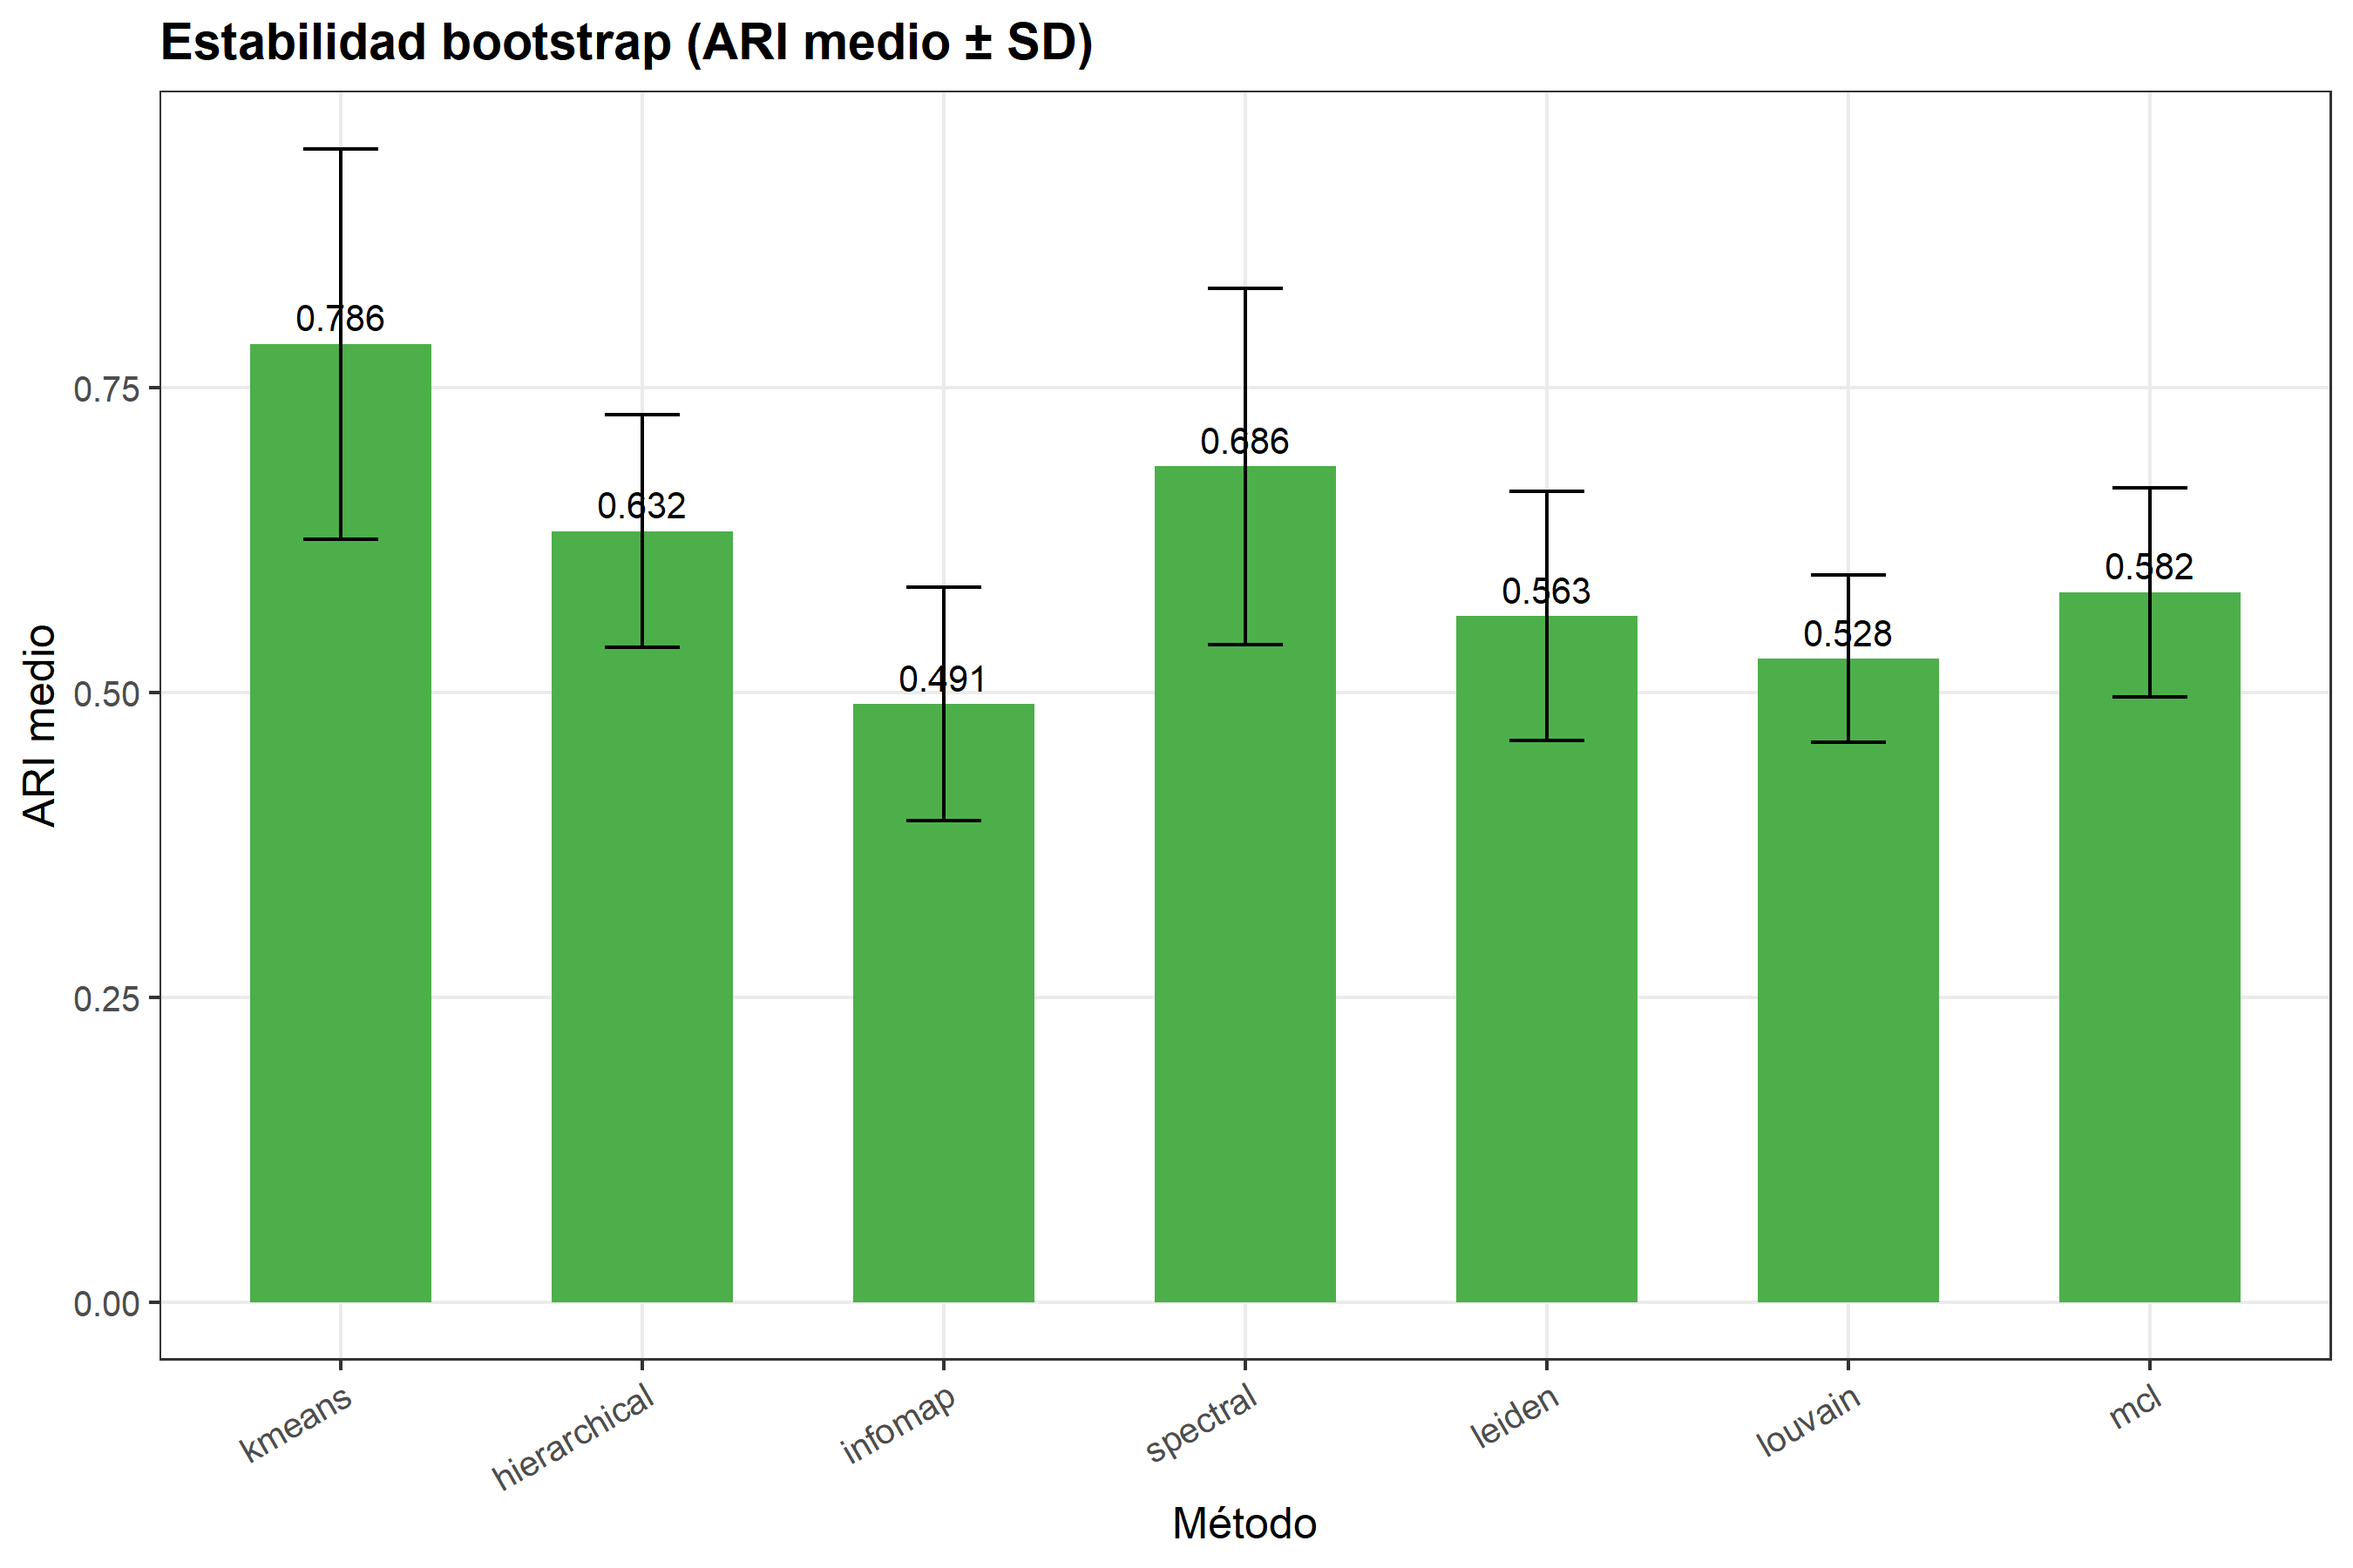
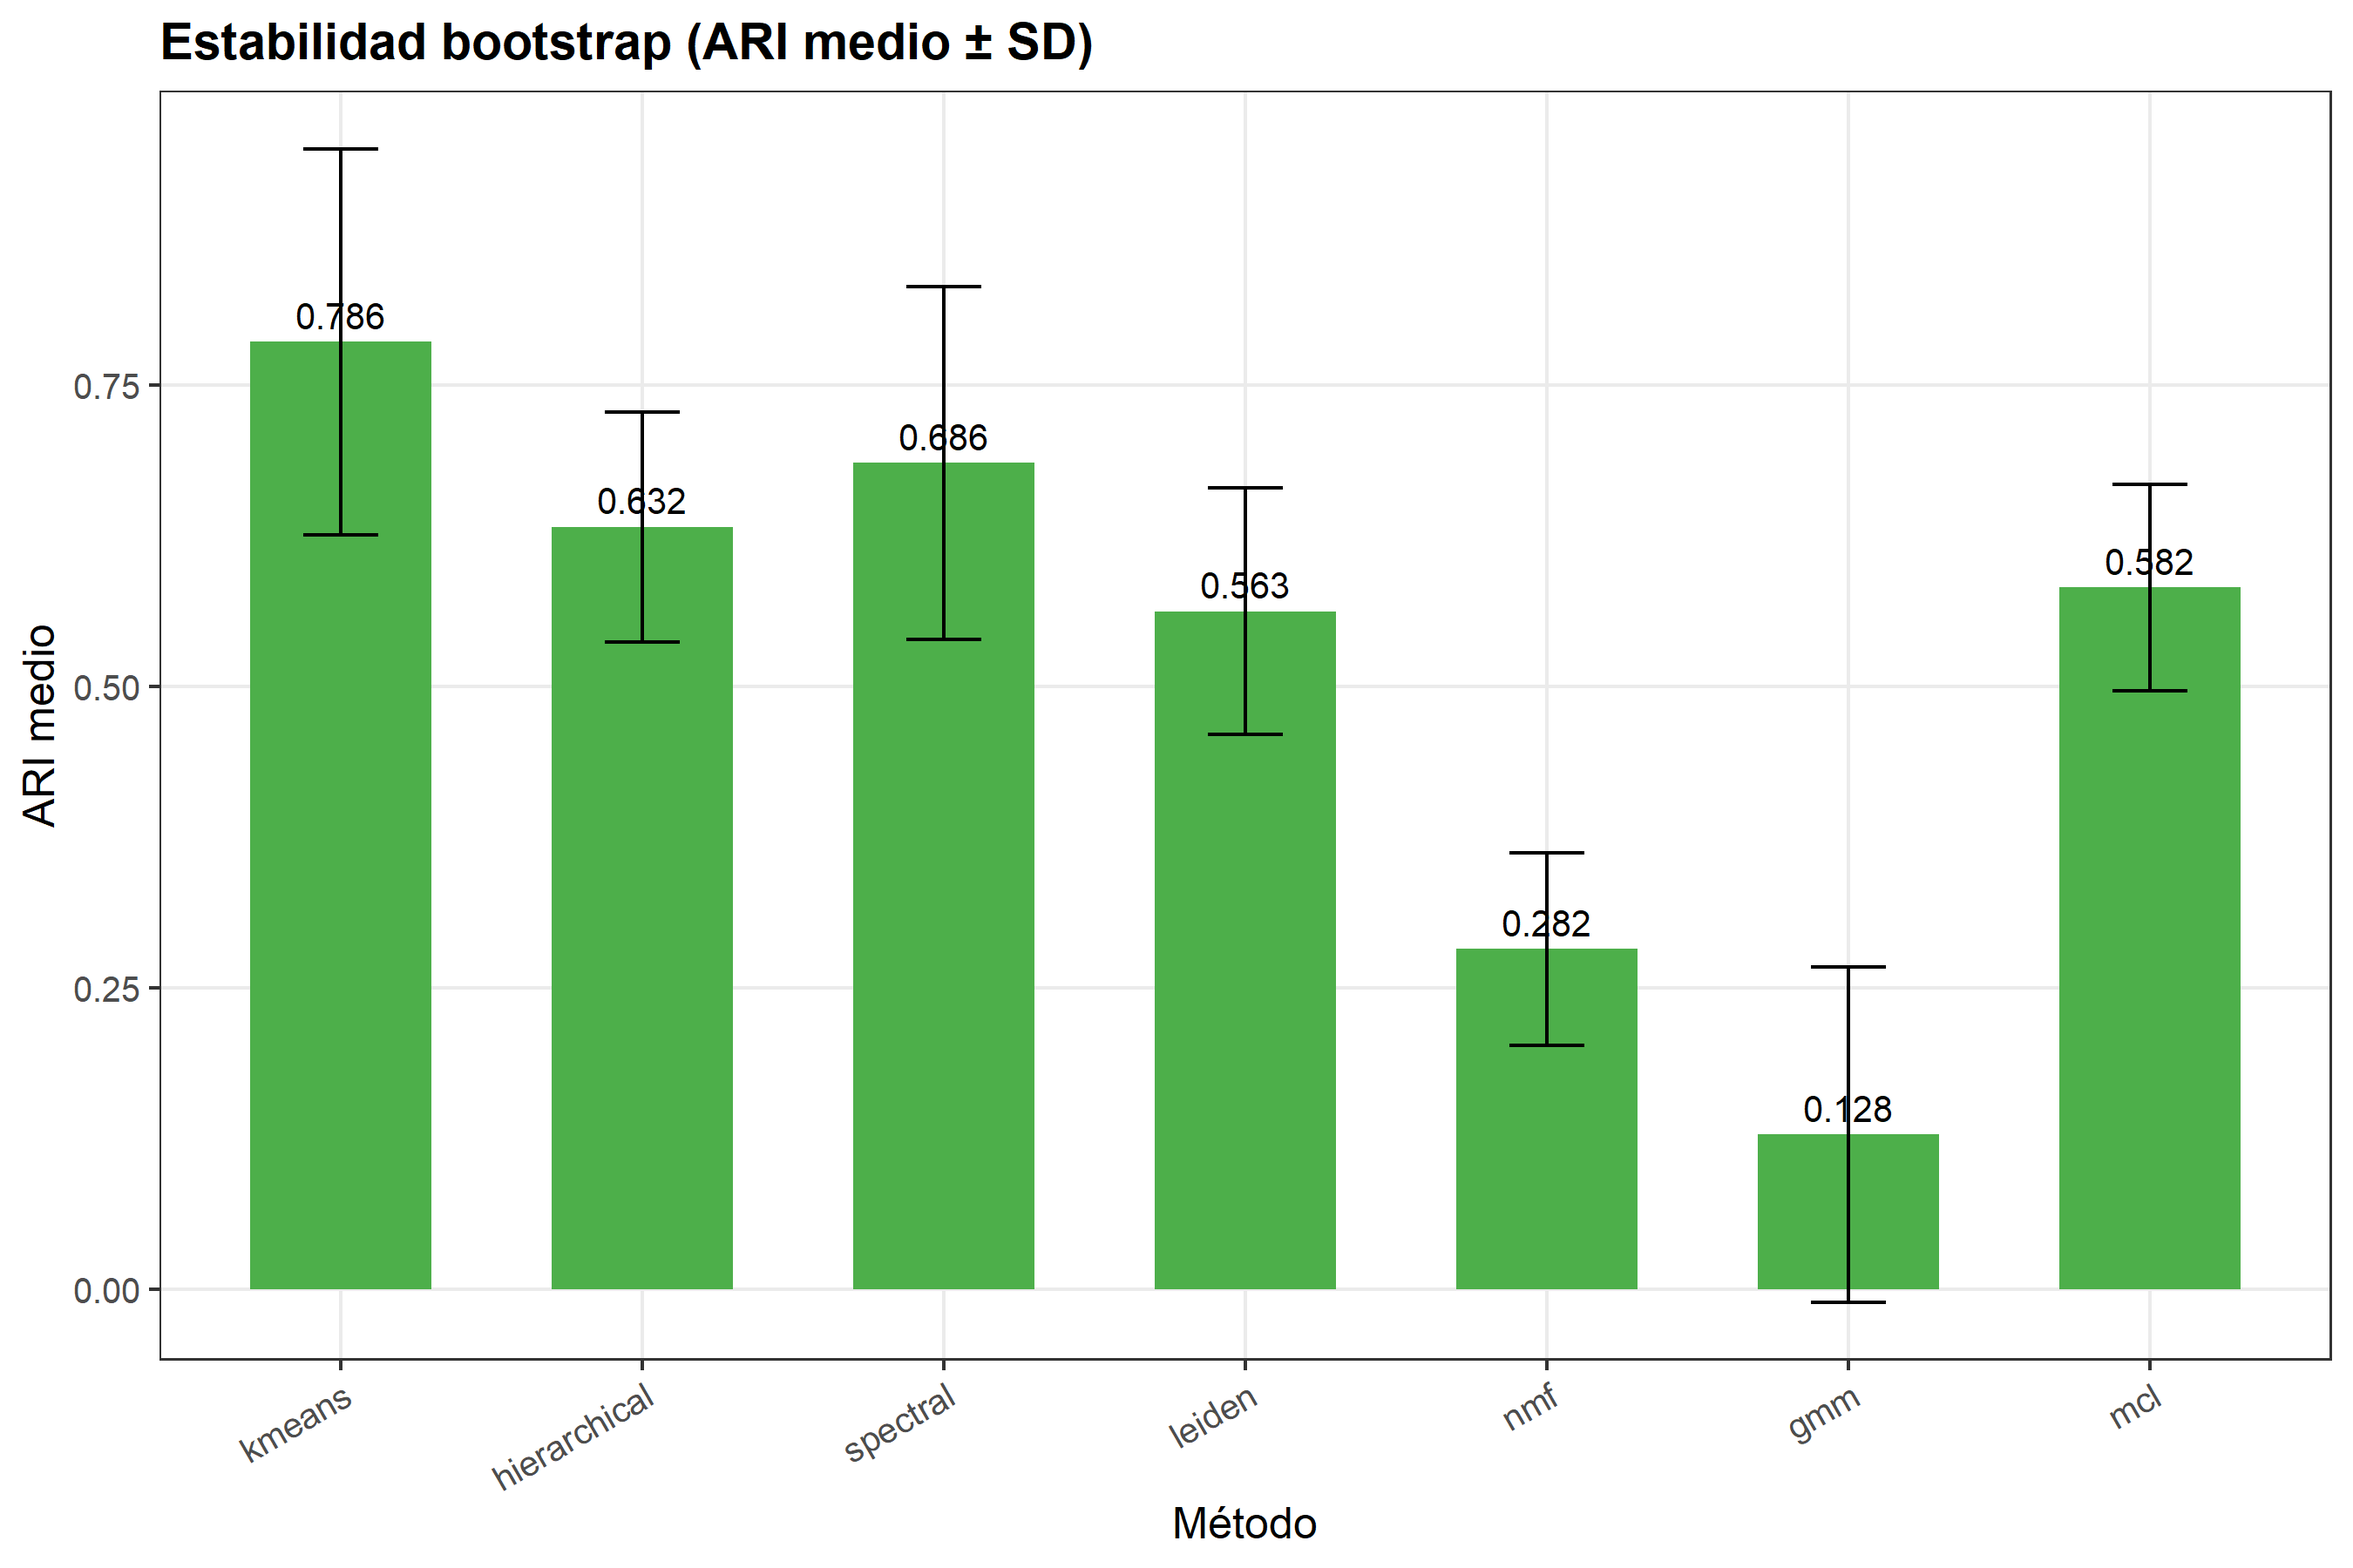
Update method comparison with NMF+GMM benchmark results
Replace Louvain/Infomap with NMF/GMM in comparison figures and README table.
K-means confirmed as best method (silhouette=0.156, bootstrap ARI=0.786).
NMF instability (ARI=0.282) supports discrete cluster interpretation over
continuous metagene decomposition for bulk synovial RNA-seq.

diff --git a/README.md b/README.md
@@ -136,18 +136,20 @@ El Sankey visualiza el **doble flujo desde el Linfoide histológico** hacia los 
 </tr>
 </table>
 
-| Método | Silhouette (k=5) | Veredicto |
-|--------|-----------------|-----------|
-| **K-means** | **0.156** | ✅ Mejor separación interna |
-| Jerárquico | 0.150 | ✅ Segundo más sólido |
-| Infomap | 0.084 | Moderado |
-| Espectral | 0.082 | Moderado |
-| Leiden | 0.067 | Genera clusters adicionales |
-| Louvain | 0.054 | Genera clusters adicionales |
-| MCL | 0.015 | Separación casi aleatoria |
-| Consensus | 0.003 | Inestable con clusters pequeños |
+| Método | Silhouette (k=5) | Bootstrap ARI | Veredicto |
+|--------|-----------------|---------------|-----------|
+| **K-means** | **0.156** | **0.786** | ✅ Mejor en separación y estabilidad |
+| Jerárquico | 0.150 | 0.632 | ✅ Segundo más sólido |
+| Espectral | 0.082 | 0.686 | Moderado |
+| Leiden | 0.067 | 0.563 | Genera clusters adicionales |
+| NMF | 0.062 | 0.282 | Inestable — baja reproducibilidad bootstrap |
+| GMM | 0.048 | 0.128 | Inestable — insuficientes muestras para gaussianas |
+| MCL | 0.015 | 0.582 | Separación casi aleatoria |
+| Consensus | 0.003 | — | Inestable con clusters pequeños |
 
-**Los métodos de grafo (Leiden, Louvain, Infomap, MCL) producen muestras "Unresolved"** — asignan algunas muestras a comunidades adicionales más allá de k. Esto confirma que estos métodos, diseñados para datos single-cell con topología de variedad no lineal, no son apropiados para bulk RNA-seq de tejido complejo donde la geometría es esencialmente euclídea.
+Se compararon métodos clásicos (K-means, jerárquico, spectral, consensus), basados en grafos (Leiden, MCL) y específicos para datos de expresión génica bulk (NMF, GMM). **K-means es el único método que combina alta separación interna (silhouette 0.156) con alta estabilidad bootstrap (ARI 0.786)**, siendo seleccionado como método definitivo.
+
+La baja estabilidad de NMF (ARI=0.282) indica que la variación transcriptómica en biopsias sinoviales forma estados discretos robustos más que un continuo de programas superpuestos — lo que justifica retrospectivamente el uso de clustering duro. Los métodos de grafo (Leiden, MCL) producen muestras "Unresolved", confirmando que bulk RNA-seq sinovial tiene geometría esencialmente euclídea, sin la topología de variedad no lineal de datos single-cell.
 
 ---
 
